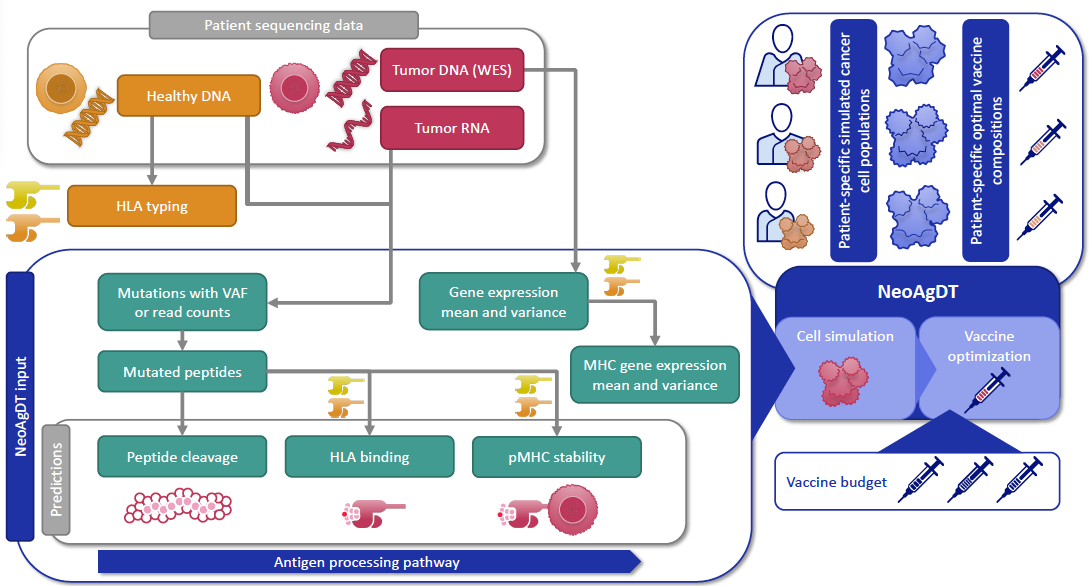
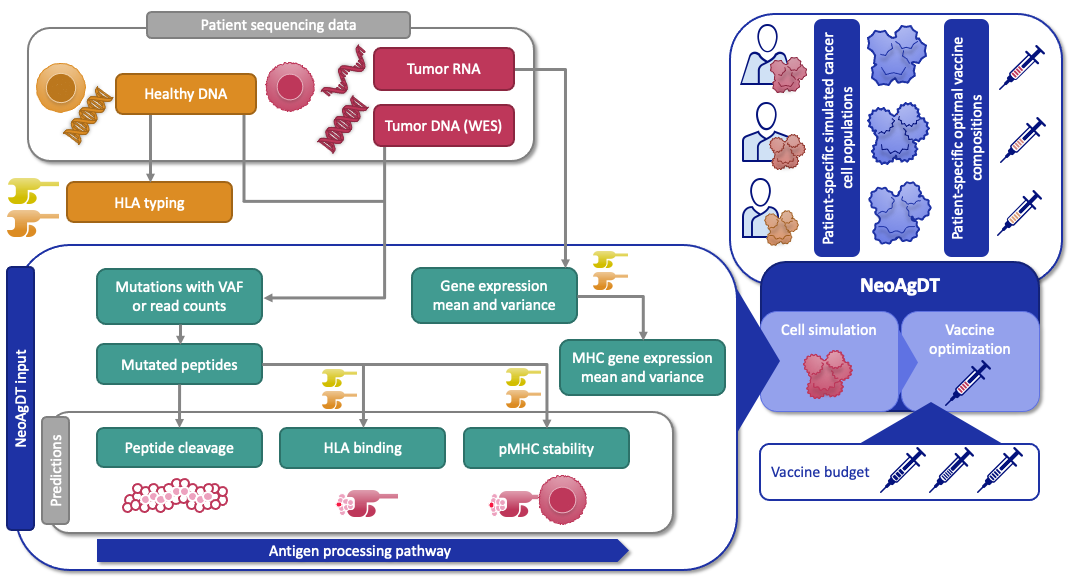
Updated README.md and workflow figure

diff --git a/README.md b/README.md
@@ -73,6 +73,14 @@ evaluate-vaccine-response etc/response-likelihood-config.yaml --logging-level IN
 ```
 ---
 
+### Running everything at once
+
+You can run all above-mentioned steps (simulation, optimization, evaluation and plotting) with the following command:
+```
+bash ./run-sim.sh
+```
+---
+
 ### Execute unit tests
 ```
 pip install .[test]
